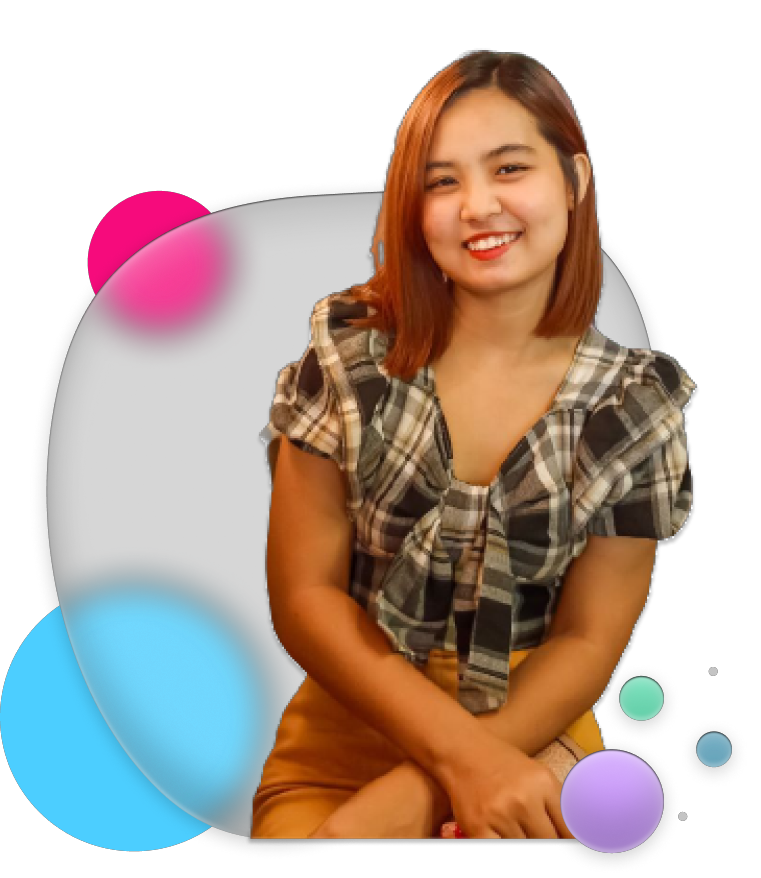
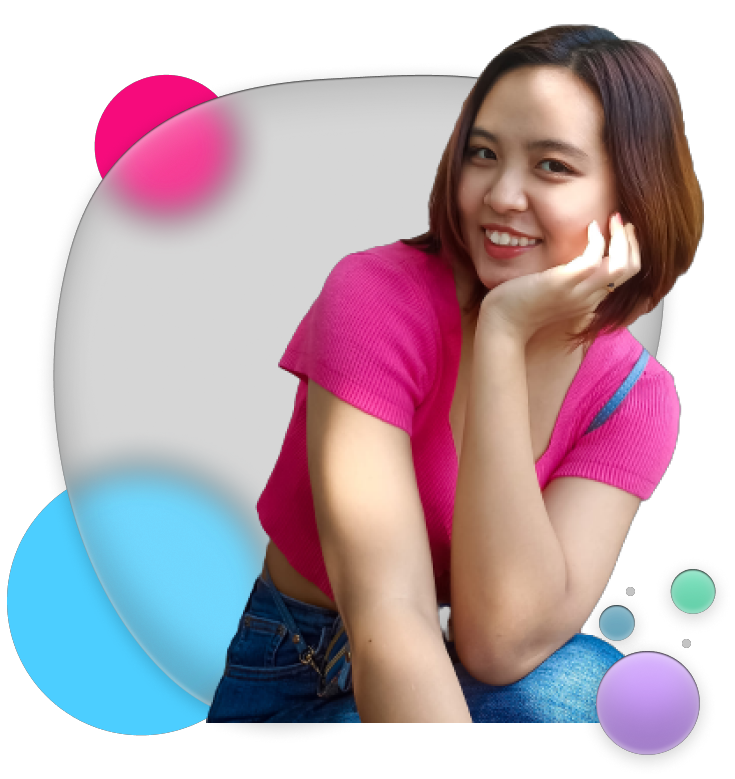
minor: fixed 1

diff --git a/src/components/Profile.jsx b/src/components/Profile.jsx
@@ -1,5 +1,6 @@
 import React from "react";
-import kk from "../assets/img/Group 6.png";
+import thwe_thwe from "../assets/img/thwe_thwe.png";
+
 // import gifimg from "../assets/img/4d0858f0-50c6-4102-a8ff-95ad609328fe.gif";
 import "./Profile.css";
 
@@ -12,14 +13,14 @@ const Profile = () => {
             className="md:h-full min-h-[75%]  w-full justify-center mx-auto my-auto items-center 
            relative  flex"
           >
-            <div className=" absolute z-50  left-5 top-20 ">
-              <img src={kk} className="w-full h-full" alt="" />
+            <div className=" absolute z-50  top-40 ">
+              <img src={thwe_thwe} className="w-full h-full" alt="" />
             </div>
-            <div class="code-loader z-20 absolute right-10 top-10">
+            <div class="code-loader z-20 absolute right-10 ">
               <span>{"<"}</span>
               <span>{"/>"}</span>
             </div>
-            <div class="bg z-20 absolute left-0 -bottom-10">
+            <div class="bg z-20 absolute left-0 -bottom-20">
               <div class="loader"></div>
             </div>
 

diff --git a/src/components/Hero.jsx b/src/components/Hero.jsx
@@ -42,7 +42,7 @@ const Hero = ({ setActiveTab }) => {
         </div>
 
         <div className="w-full  text-white ">
-          <div className="h-[300px] sm:h-[240px] lg:h-[250px] xl:h-[200px] w-[90%]">
+          <div className="sm:w-[90%] w-full">
             <h6 className="uppercase text-[9px] font-bold tracking-[1.4px] mb-5">
               INTRODUCTION
             </h6>
@@ -55,6 +55,7 @@ const Hero = ({ setActiveTab }) => {
                   letterSpacing: 1,
                   fontSize: 45,
                   color: "white",
+                  whiteSpace:"nowrap"
                 }}
               >
                 Thwe Thwe

diff --git a/src/components/Burger.jsx b/src/components/Burger.jsx
@@ -4,7 +4,7 @@ const Burger = ({ showSidebar, setShowSidebar }) => {
   return (
     <button
       onClick={() => setShowSidebar((prev) => !prev)}
-      className="fixed z-[1000] sm:top-[80px] sm:right-[80px] top-[30px] right-[30px] group flex justify-center items-center flex-col gap-[4px]
+      className="fixed z-[1000] sm:top-[80px] sm:right-[80px] top-[50px] right-[30px] group flex justify-center items-center flex-col gap-[4px]
         px-1 py-2"
     >
       <div

diff --git a/src/components/Portfolio.jsx b/src/components/Portfolio.jsx
@@ -27,13 +27,13 @@ const Portfolio = ({ setActiveTab }) => {
             {projectCardData.map((data, i) => (
               <ProjectCard {...data} key={i} />
             ))}
-            <video
+            {/* <video
               src={mockup}
               autoPlay={true}
               loop
               controls={false}
               className="bg-transparent"
-            ></video>
+            ></video> */}
           </div>
         </div>
       </section>

diff --git a/src/components/ScrollIndicator.jsx b/src/components/ScrollIndicator.jsx
@@ -3,7 +3,7 @@ import React from "react";
 const ScrollIndicator = ({ showScrollBtn }) => {
   return (
     <div
-      className={`flex items-center absolute md:bottom-[50px] bottom-[90px] sm:right-[0px] right-[5px] gap-2 rotate-90
+      className={`flex items-center absolute md:bottom-[60px] bottom-[100px] sm:right-[0px] right-[2px] gap-2 rotate-90
     ${
       showScrollBtn ? "opacity-100" : "opacity-0"
     } transition-all duration-300 ease-in-out`}

diff --git a/index.html b/index.html
@@ -2,7 +2,8 @@
 <html lang="en">
   <head>
     <meta charset="UTF-8" />
-    <link rel="icon" type="image/svg+xml" href="/vite.svg" />
+    <link rel="icon" type="image" href="./src/assets/img/logo.png" />
+    <!-- <img src="" alt="Logo"> -->
     <meta name="viewport" content="width=device-width, initial-scale=1.0" />
     <title>Thwe Thwe</title>
   </head>
